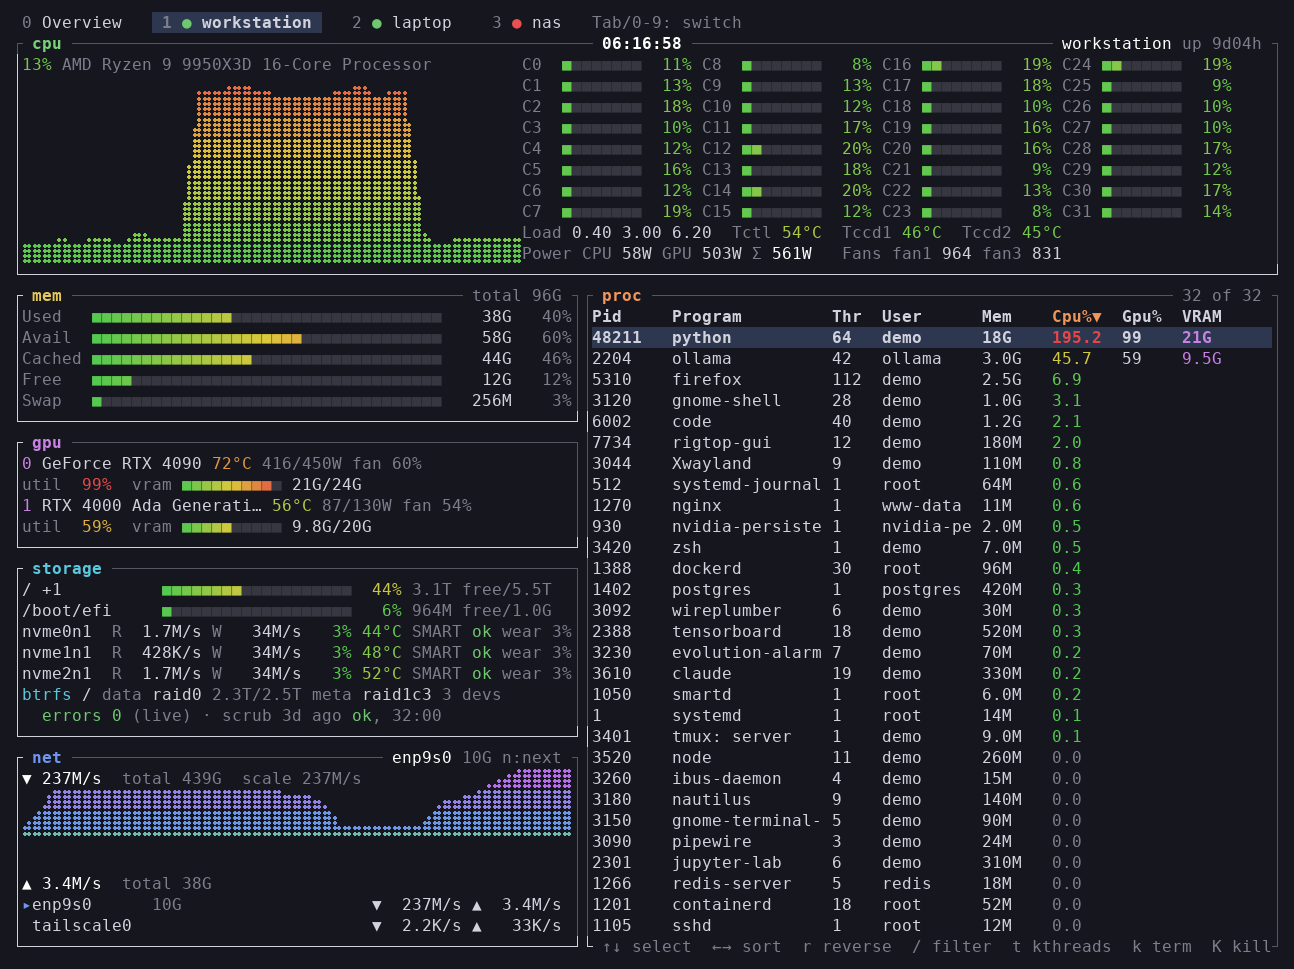
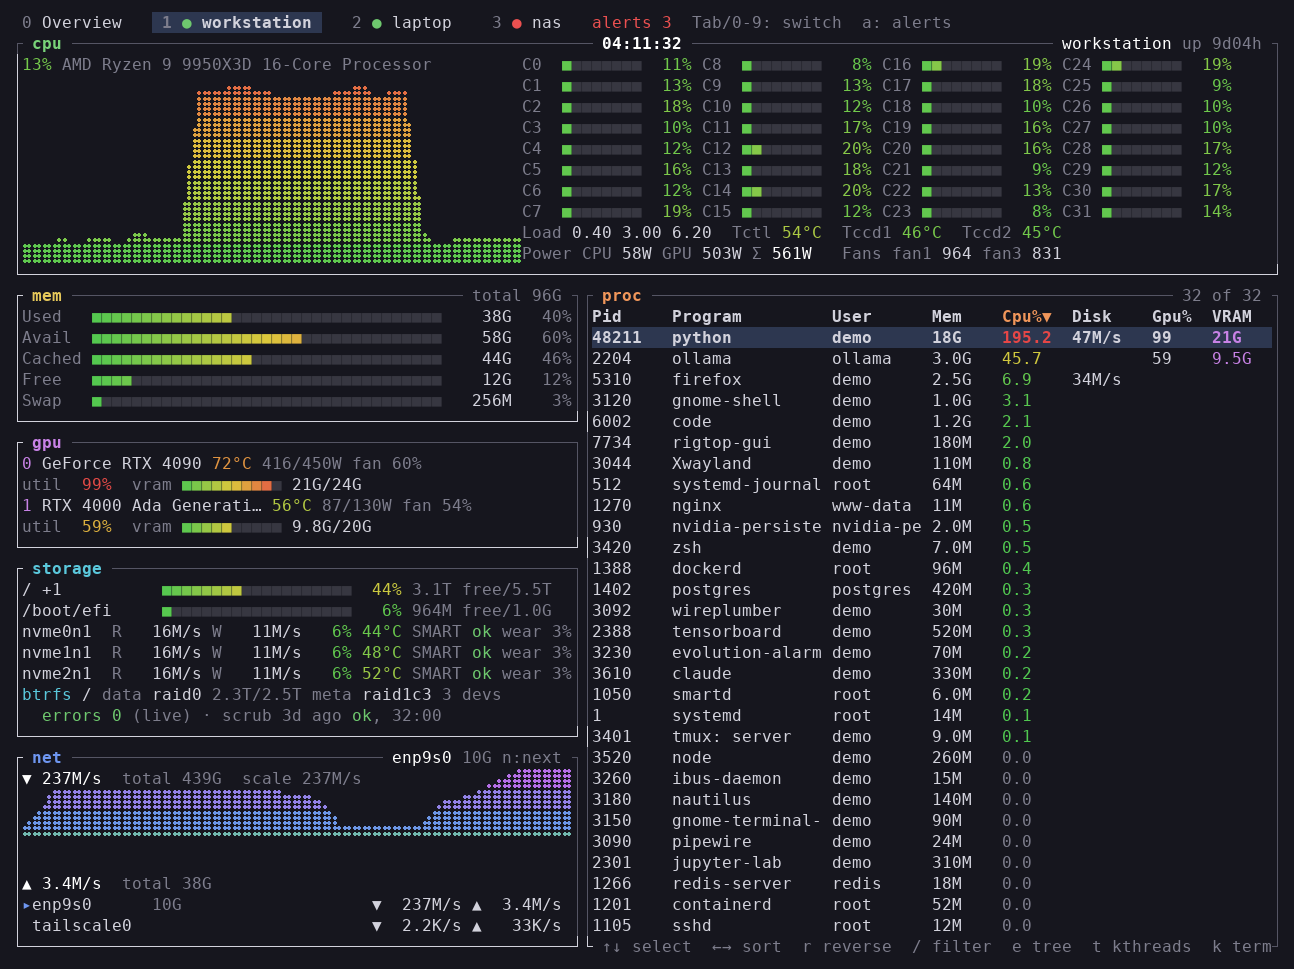
README: new screenshots with the Disk column and the process tree
The GUI screenshot test now takes the pointer off the screen after its
clicks, so the last clicked control is not drawn hovered.

diff --git a/crates/rigtop-gui/src/app.rs b/crates/rigtop-gui/src/app.rs
@@ -1672,6 +1672,9 @@ mod tests {
                 harness.get_by_label(label).click();
                 harness.run();
             }
+            // Otherwise the last click's pointer and hover stay in the picture.
+            harness.remove_cursor();
+            harness.run();
         }
         harness
             .render()

diff --git a/README.ja.md b/README.ja.md
@@ -13,7 +13,7 @@
 
 [English README](README.md)
 
-![rigtop の TUI: CPU の各コア、メモリ、GPU 2枚、SMART と btrfs RAID を含むストレージの状態、ネットワーク、プロセスごとの VRAM を出すプロセス一覧](docs/images/rigtop-tui.png)
+![rigtop の TUI: CPU の各コア、メモリ、GPU 2枚、SMART と btrfs RAID を含むストレージの状態、ネットワーク、プロセスごとのディスク I/O と VRAM を出すプロセス一覧](docs/images/rigtop-tui.png)
 
 ## 目標
 
@@ -105,7 +105,7 @@ cargo run --release -p rigtop -- --help  # オプション（--interval-ms、--c
 
 ### GUI
 
-![rigtop-gui: 同じパネル構成のネイティブウィンドウ。滑らかなグラフとバーで、パネルはリサイズ・並べ替えできる](docs/images/rigtop-gui.png)
+![rigtop-gui: 同じパネル構成のネイティブウィンドウ。滑らかなグラフとバーで、パネルはリサイズ・並べ替えできる。プロセスはツリー表示](docs/images/rigtop-gui.png)
 
 ```sh
 cargo run --release -p rigtop-gui            # オプションは TUI と同じ（--interval-ms、--config）

diff --git a/README.md b/README.md
@@ -13,7 +13,7 @@ A system monitor for workstations, laptops and NAS — an alternative to btop th
 
 [日本語版 README](README.ja.md)
 
-![rigtop TUI: CPU cores, memory, two GPUs, storage health with SMART and btrfs RAID, network, and a process list with per-process VRAM](docs/images/rigtop-tui.png)
+![rigtop TUI: CPU cores, memory, two GPUs, storage health with SMART and btrfs RAID, network, and a process list with per-process disk I/O and VRAM](docs/images/rigtop-tui.png)
 
 ## Goals
 
@@ -105,7 +105,7 @@ cargo run --release -p rigtop -- --help  # options (--interval-ms, --config, --d
 
 ### GUI
 
-![rigtop-gui: the same panels in a native window, with smooth graphs and meters, resizable and rearrangeable](docs/images/rigtop-gui.png)
+![rigtop-gui: the same panels in a native window, with smooth graphs and meters, resizable and rearrangeable, here with the process tree](docs/images/rigtop-gui.png)
 
 ```sh
 cargo run --release -p rigtop-gui            # same options: --interval-ms, --config
